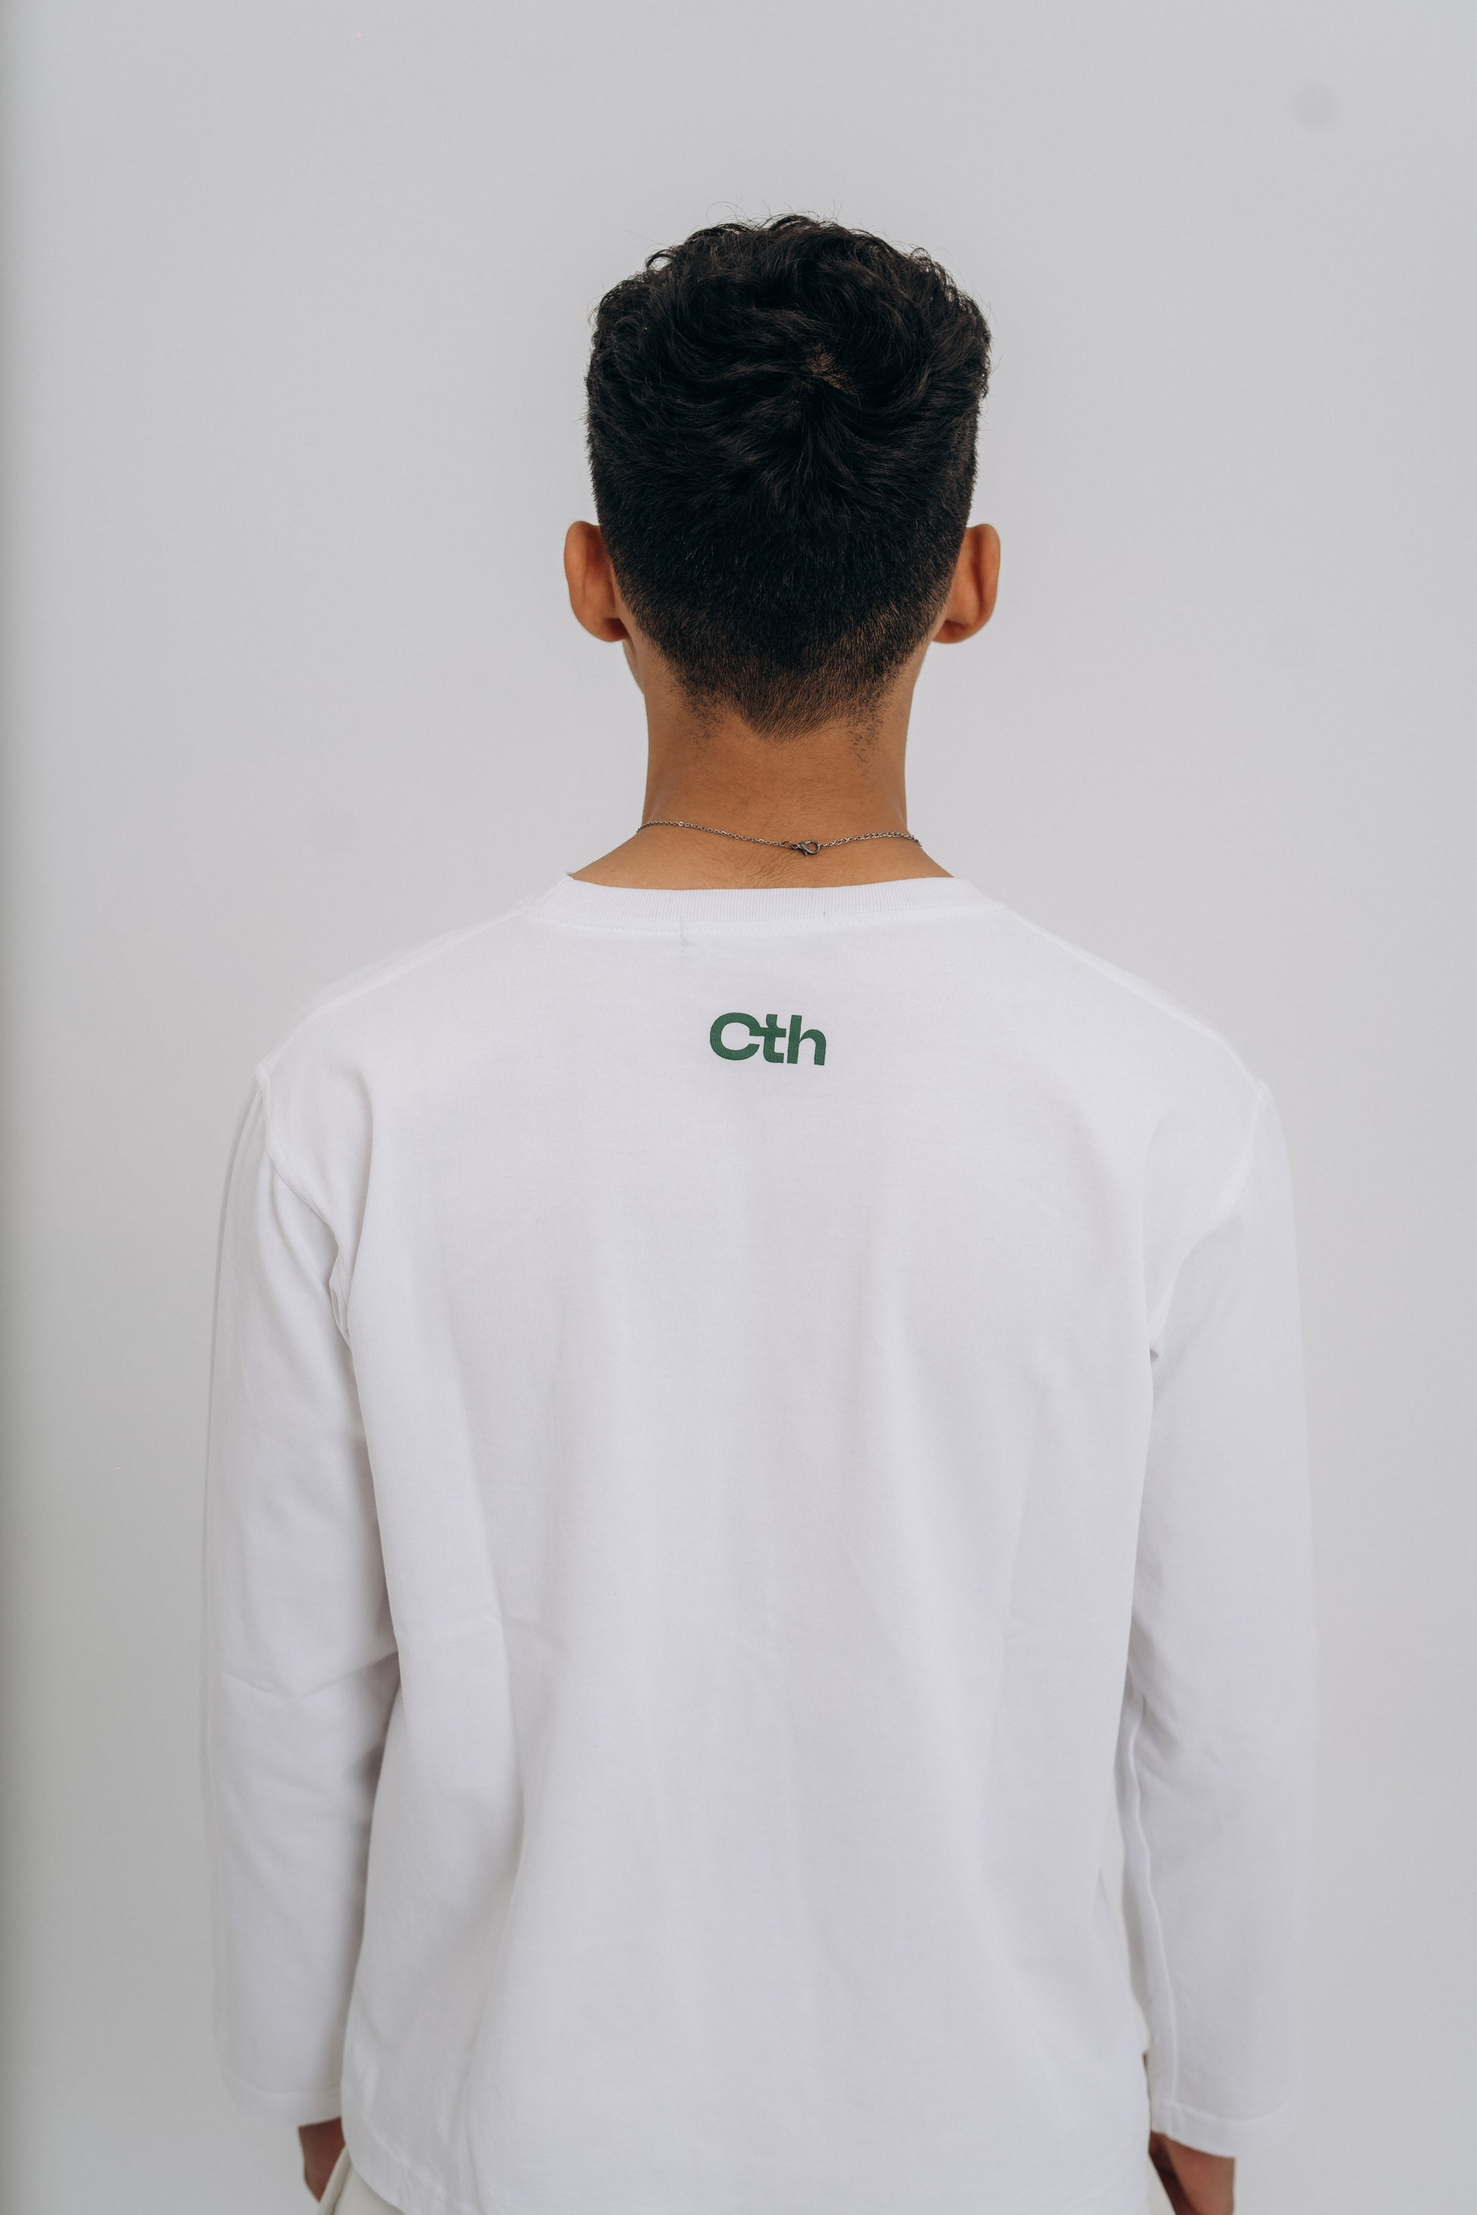
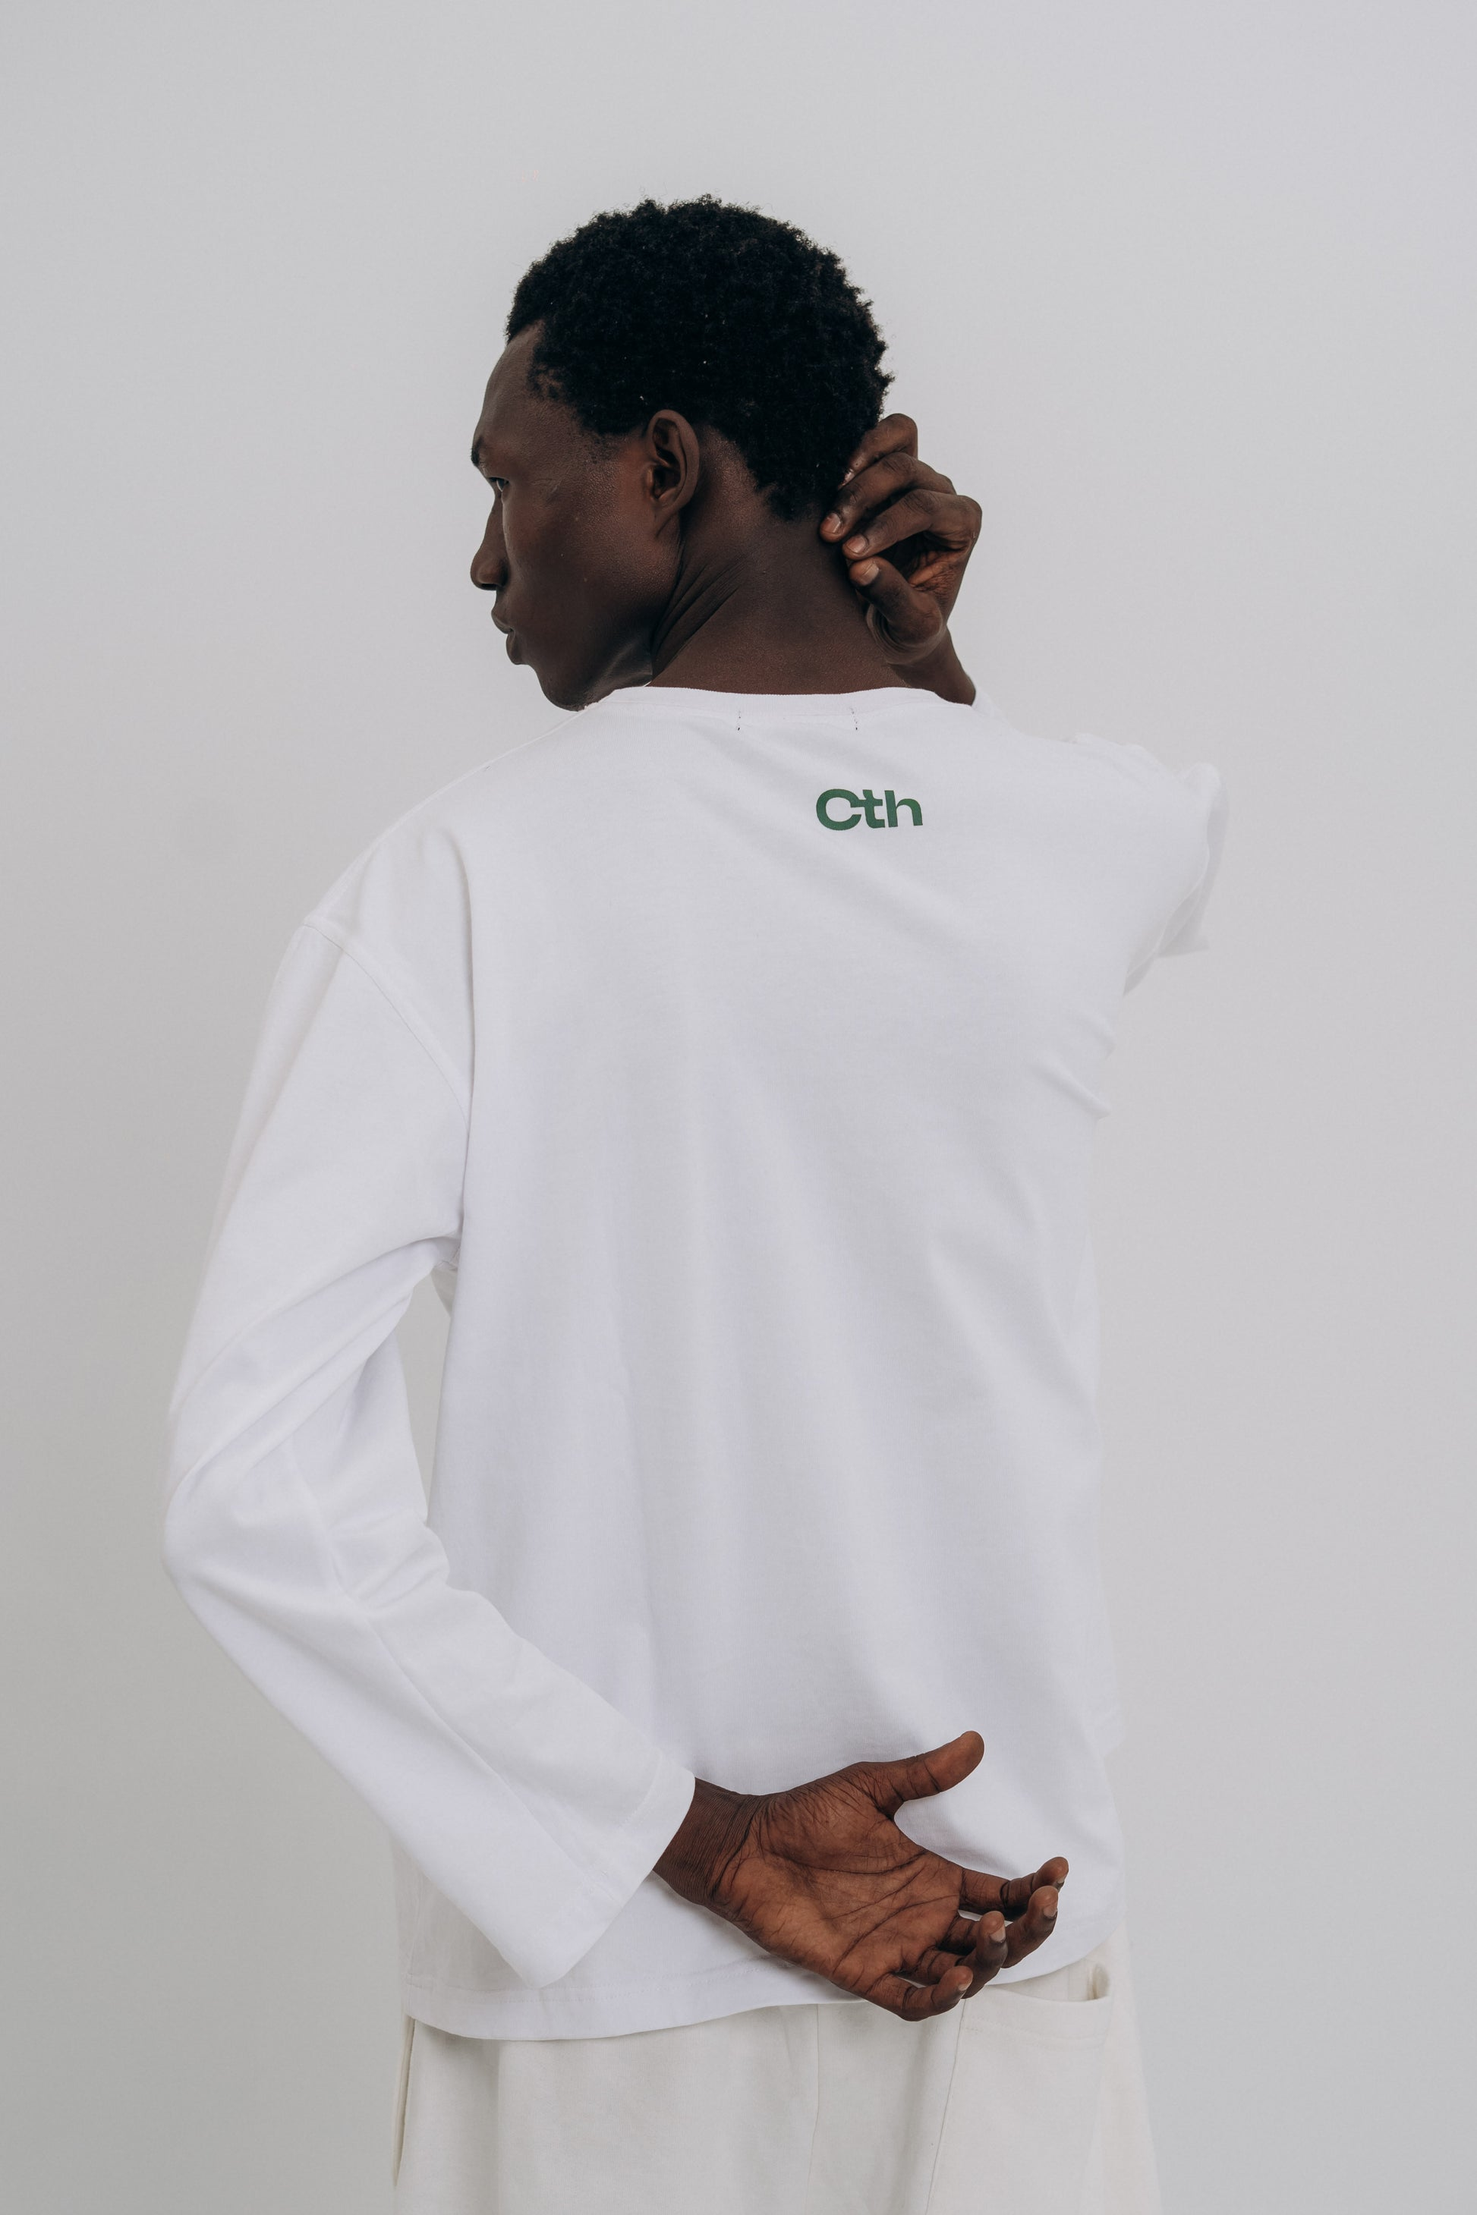
24-11-24-10_51

diff --git a/app/component/ProductSpecs.jsx b/app/component/ProductSpecs.jsx
@@ -1,0 +1,119 @@
+'use client';
+import Link from 'next/link';
+import { useState, useEffect } from 'react';
+
+const ProductSpecs = ({ product }) => {
+    const [specs, setSpecs] = useState({
+        color: '',
+        size: '',
+        count: 0,
+    });
+    const sizes = ['Small', 'Medium', 'Large'];
+
+    function makeOrder(specs) {
+        const date = new Date().toLocaleString()
+        localStorage.setItem(`${product.name} - ${specs.size} - ${date}`, JSON.stringify(specs.count))
+
+        const cartItems = Object.keys(localStorage)
+        const productSum = cartItems
+            .map(e => localStorage.getItem(e))
+            .reduce((a, item) => parseInt(a) + parseInt(item), 0)
+
+        const cartCount = document.querySelector('#cartCount')
+        if (productSum > 0) {
+            cartCount.style.display = 'flex'
+            cartCount.textContent = productSum
+        } else {
+            cartCount.style.display = 'none'
+        }
+
+        console.log('success', productSum)
+    }
+
+
+    return (
+        <div className="my-8">
+            {/* Size Selector */}
+            <h4 className="mb-4 text-lg font-semibold text-black">Choose Your Size</h4>
+            <ul className="flex gap-4" role="list">
+                {sizes.map((size, index) => (
+                    <li
+                        key={index}
+                        className={`cursor-pointer border px-4 py-2 text-center font-medium 
+                        ${specs.size === size
+                                ? 'bg-black text-white border-black'
+                                : 'bg-white text-black border-gray-300 hover:bg-gray-100'
+                            } transition-all duration-200 ease-in-out`}
+                        role="button"
+                        tabIndex={0}
+                        aria-selected={specs.size === size}
+                        onClick={() => setSpecs((prev) => ({ ...prev, size }))}
+                        onKeyDown={(e) => {
+                            if (e.key === 'Enter' || e.key === ' ') {
+                                setSpecs((prev) => ({ ...prev, size: size }));
+                            }
+                        }}
+                    >
+                        {size}
+                    </li>
+                ))}
+            </ul>
+
+            {/* Quantity Selector */}
+            <h4 className="mt-8 mb-4 text-lg font-semibold text-black">Select Quantity</h4>
+            <div className="flex items-center justify-between border border-gray-300 p-4">
+                <button
+                    className={`flex items-center justify-center w-10 h-10 
+                    ${specs.count <= 0
+                            ? 'bg-gray-200 text-gray-400 cursor-not-allowed'
+                            : 'bg-black text-white hover:bg-gray-800'
+                        } transition-all duration-200 ease-in-out`}
+                    onClick={() => setSpecs((prev) => ({ ...prev, count: prev.count - 1 }))}
+                    disabled={specs.count <= 0}
+                    aria-label="Decrease quantity"
+                >
+                    -
+                </button>
+                <div
+                    id="quantity-display"
+                    aria-live="polite"
+                    aria-relevant="text"
+                    role="status"
+                    className="text-lg font-semibold text-black"
+                >
+                    {specs.count}
+                </div>
+                <button
+                    className={`flex items-center justify-center w-10 h-10 
+                    ${specs.count >= 10
+                            ? 'bg-gray-200 text-gray-400 cursor-not-allowed'
+                            : 'bg-black text-white hover:bg-gray-800'
+                        } transition-all duration-200 ease-in-out`}
+                    onClick={() => setSpecs((prev) => ({ ...prev, count: prev.count + 1 }))}
+                    disabled={specs.count >= 10}
+                    aria-label="Increase quantity"
+                >
+                    +
+                </button>
+            </div>
+
+            <Link href="/cart">
+                <button
+                    className={`w-full text-center py-3 mt-8 font-medium 
+                        ${specs.count === 0 || specs.size === ''
+                            ? 'bg-gray-200 text-gray-400 cursor-not-allowed'
+                            : 'bg-black text-white hover:bg-gray-800'
+                        } focus:outline-none focus:ring-2 focus:ring-gray-600 focus:ring-offset-2 
+                        transition-all duration-200 ease-in-out`}
+                    aria-disabled={specs.count === 0 || specs.size === ''}
+                    disabled={specs.count === 0 || specs.size === ''}
+                    onClick={() => makeOrder(specs)}
+                >
+                    Go to Checkout
+                </button>
+            </Link>
+        </div>
+    );
+};
+
+export default ProductSpecs;

diff --git a/app/component/Landing.jsx b/app/component/Landing.jsx
@@ -11,8 +11,8 @@ const Landing = () => {
             <div className="grid grid-cols-2 grid-rows-1 gap-2">
                 <div className="col-span-1 row-span-1 px-1">
                     <Link className="productImgContainer" href={'/SweetPants'}>
-                        <Image className="productImg" src={'/pant-9.jpg'} alt="SweetPants" width={500} height={500} layout="responsive" />
-                        <Image className="productImgHover" src={'/pant-2.jpg'} alt="SweetPants" width={500} height={500} layout="responsive" />
+                        <Image className="productImg" src={'/pant-5.jpg'} alt="SweetPants" width={500} height={500} layout="responsive" />
+                        <Image className="productImgHover" src={'/pant-1.jpg'} alt="SweetPants" width={500} height={500} layout="responsive" />
                     </Link>
                     <div className={`flex flex-col justify-between gap-3 my-[20px]`}>
                         <p className="text-xs">Cream SweetPants</p>
@@ -26,8 +26,8 @@ const Landing = () => {
                 </div>
                 <div className="col-span-1 row-span-1 px-1">
                     <Link className="productImgContainer" href={'/T-shirt'}>
-                        <Image className="productImg" src={'/top-11.jpg'} alt="T-shirt" width={500} height={500} layout="responsive" />
-                        <Image className="productImgHover" src={'/top-15.jpg'} alt="T-shirt" width={500} height={500} layout="responsive" />
+                        <Image className="productImg" src={'/top-1.jpg'} alt="T-shirt" width={500} height={500} layout="responsive" />
+                        <Image className="productImgHover" src={'/top-2.jpg'} alt="T-shirt" width={500} height={500} layout="responsive" />
                     </Link>
                     <div className={`flex flex-col justify-between gap-3 my-[20px]`}>
                         <p className="text-xs">Long Sleeve T-shirt</p>

diff --git a/app/component/ProductImgs.jsx b/app/component/ProductImgs.jsx
@@ -1,0 +1,61 @@
+'use client';
+
+import Image from 'next/image';
+import { useState } from 'react';
+
+const ProductImgs = ({ product }) => {
+    const [mainProductImg, setMainProductImg] = useState({
+        src: `/${product.type}-1.jpg`,
+        alt: `${product.name} main image`,
+    });
+
+    let restProducts = [];
+    for (let i = 0; i < product.count; i++) {
+        restProducts.push(
+            <Image
+                className="max-w-[50px] cursor-pointer"
+                key={`${product.type}-${i}`}
+                src={`/${product.type}-${i + 1}.jpg`}
+                alt={`${product.name} image ${i + 1}`}
+                width={50}
+                height={50}
+                onClick={() =>
+                    setMainProductImg({
+                        src: `/${product.type}-${i + 1}.jpg`,
+                        alt: `${product.name} image ${i + 1}`,
+                    })
+                }
+            />
+        );
+    }
+
+    const [moreImg, setMoreImg] = useState(false);
+
+    return (
+        <>
+            <Image
+                className='w-full'
+                src={mainProductImg.src}
+                alt={mainProductImg.alt}
+                width={500}
+                height={500}
+                priority // Optional for performance
+            />
+            <div className="flex flex-col mt-2">
+                <div
+                    className={`w-full flex gap-3 items-center flex-wrap`}
+                >
+                    {restProducts}
+                </div>
+                {/* <button
+                    className="block md:hidden w-full mt-2 p-3 border-[1px] border-stone-950 text-center"
+                    onClick={() => setMoreImg((prev) => !prev)}
+                >
+                    {moreImg ? 'Show less' : 'Show more'}
+                </button> */}
+            </div>
+        </>
+    );
+};
+
+export default ProductImgs;

diff --git a/app/component/NavIcons.jsx b/app/component/NavIcons.jsx
@@ -19,15 +19,19 @@ const NavIcons = () => {
     }, [searchOpen]);
 
     useEffect(() => {
-        const cart = localStorage.getItem('cart')
-        const cartCount = document.querySelector('#cartCount')
+        const cartItems = Object.keys(localStorage)
+        const productSum = cartItems
+            .map(e => localStorage.getItem(e))
+            .reduce((a, item) => parseInt(a) + parseInt(item), 0)
 
-        if (cart && JSON.parse(cart).count) {
+        const cartCount = document.querySelector('#cartCount')
+        if (productSum > 0) {
             cartCount.style.display = 'flex'
-            cartCount.textContent = JSON.parse(cart).count
+            cartCount.textContent = productSum
         } else {
             cartCount.style.display = 'none'
         }
+
 
     }, [])
 
@@ -35,7 +39,7 @@ const NavIcons = () => {
     return (
         <>
             <div className="w-1/3 flex items-center justify-end gap-4 text-[1.7rem]">
-                <button
+                {/* <button
                     className="flex items-center cursor-pointer"
                     onClick={() => setSearchOpen(true)}
                     aria-label="Open search bar"
@@ -49,7 +53,7 @@ const NavIcons = () => {
                     >
                         <VscAccount />
                     </button>
-                </Link>
+                </Link> */}
                 <Link href="/cart">
                     <button
                         className="cursor-pointer flex items-center relative"

diff --git a/app/[slug]/page.jsx b/app/[slug]/page.jsx
@@ -1,8 +1,32 @@
+'use client'
+import { useState } from "react";
+import ProductImgs from "../component/ProductImgs";
+import ProductText from "./../component/ProductText";
+
 export default function SinglePage({ params }) {
+
+    const product = params.slug === 'T-shirt' ? {
+        name: 'Long Sleeve T-shirt',
+        price: 'L.E 650.00 EGP',
+        type: 'top',
+        count: 8
+    } : params.slug === 'SweetPants' ? {
+        name: 'Cream SweetPants',
+        price: 'L.E 790.00 EGP',
+        type: 'pant',
+        count: 6
+    } : 'Error';
+
+
     return params.slug === 'T-shirt' || params.slug === 'SweetPants' ? (
-        (<div>
-            SinglePage
-        </div>)
+        <div className="flex flex-col md:flex-row gap-10 w-full py-[40px] px-[15px] lg:px-[50px] max-w-[1200px] mx-auto">
+            <div className="w-full md:w-1/2">
+                <ProductImgs product={product} />
+            </div>
+            <div className="w-full md:w-1/2 ">
+                <ProductText product={product} />
+            </div>
+        </div>
     ) : (
         <div className="flex flex-col items-center justify-center h-[70vh]">
             <h2 className="text-[2rem]">404</h2>

diff --git a/app/component/Menu.jsx b/app/component/Menu.jsx
@@ -13,11 +13,11 @@ const Menu = () => {
             name: 'Home',
             href: '/'
         },
-        {
-            id: 2,
-            name: 'Collections',
-            href: '/collections'
-        },
+        // {
+        //     id: 2,
+        //     name: 'Collections',
+        //     href: '/collections'
+        // },
         {
             id: 3,
             name: 'Contact',
@@ -56,13 +56,13 @@ const Menu = () => {
                         </div>
                     ))
                 }
-                <div className="link-hover md:hidden">
+                {/* <div className="link-hover md:hidden">
                     <Link
                         className={`flex items-center py-[.5rem] px-[2rem] text-[1.2rem]`}
                         href={`/`}>
                         {'Login'}
                     </Link>
-                </div>
+                </div> */}
             </nav>
             {
                 open && (

diff --git a/app/cart/page.jsx b/app/cart/page.jsx
@@ -1,8 +1,31 @@
-import React from 'react'
+'use client'
+
+import { useEffect, useState } from "react"
 
 const Cart = () => {
+    const [orders, setOrders] = useState([])
+
+    useEffect(() => {
+        const cartItems = Object.keys(localStorage)
+        const finalCartItems = cartItems.map(cartItem => ({
+            name: cartItem.split(' - ')[0],
+            size: cartItem.split(' - ')[1],
+            date: cartItem.split(' - ')[2],
+            count: localStorage.getItem(cartItem)
+        }))
+        setOrders(_ => finalCartItems)
+    }, [])
+
     return (
-        <div>Cart</div>
+        <div>
+            {orders.map(order => (
+                <div key={order.date}>
+                    <div>{order.name}</div>
+                    <div>{order.size}</div>
+                    <div>{order.count}</div>
+                </div>
+            ))}
+        </div>
     )
 }
 

diff --git a/app/component/Footer.jsx b/app/component/Footer.jsx
@@ -10,9 +10,9 @@ const Footer = () => {
                     <li>
                         <Link href="/">Home</Link>
                     </li>
-                    <li>
+                    {/* <li>
                         <Link href="/collections">All Collections</Link>
-                    </li>
+                    </li> */}
                     <li>
                         <Link href="/contact">Contact</Link>
                     </li>

diff --git a/app/component/ProductText.jsx b/app/component/ProductText.jsx
@@ -1,0 +1,14 @@
+import ProductSpecs from './ProductSpecs'
+
+const ProductText = ({ product }) => {
+    return (
+        <div className='flex flex-col gap-3 p-6 border border-gray-300'>
+            <h2 className="text-[2rem]">{product.name}</h2>
+
+            <p className="text-[1.5rem]">{product.price}</p>
+            <ProductSpecs product={product} />
+        </div>
+    )
+}
+
+export default ProductText
